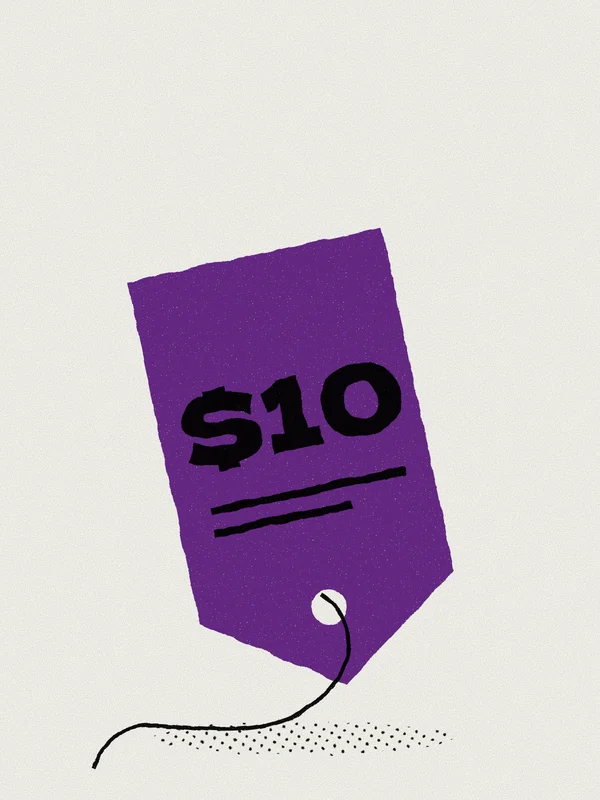
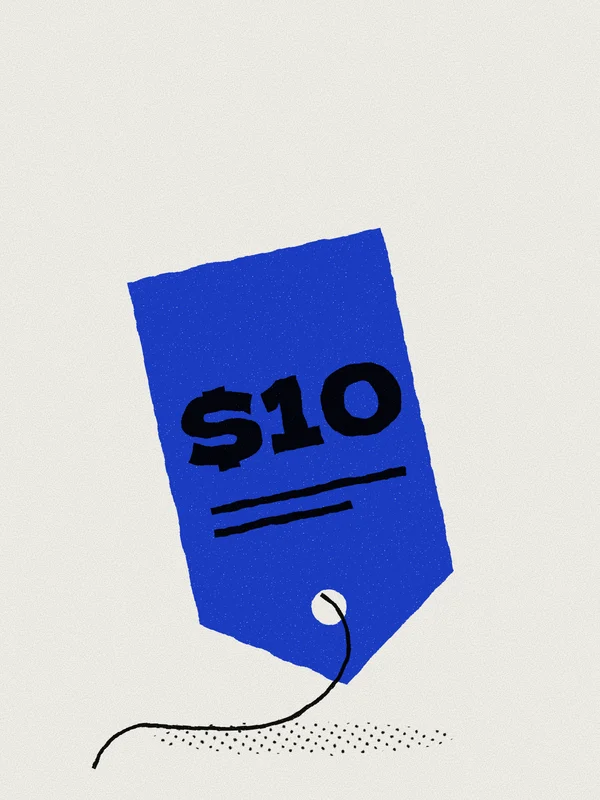
Цвет тома 1: Кобальт

Changed region(s): [[0.21, 0.2812, 0.78, 0.875]]

diff --git a/src/content/tomes/tome-1.md b/src/content/tomes/tome-1.md
@@ -5,7 +5,7 @@ color: cobalt          # tome-cobalt: #1E3FD8 днём, #8FA4FF ночью
 lede: "Тома выходят раз в два месяца, у каждого одна тема. Этот — о голосах, которые звучат, пока их владельцев не видно: о переводчице, певице без титров, женщине, нашедшей чужую песню, и подростке, который говорит чужими песнями."
 cover: "/covers/tome-1-vtoroj-golos.webp"
 coverSvg: "/covers/tome-1-vtoroj-golos.svg"
-coverAlt: "Название «Второй голос», вырезанное из сливового поля, под ним две точки: голос и его второй прогон"
+coverAlt: "Название «Второй голос», вырезанное из синего поля, под ним две точки: голос и его второй прогон"
 publishedAt: null      # дату выхода назначит главред
 status: published
 ---

diff --git a/docs/components.md b/docs/components.md
@@ -12,7 +12,7 @@
 
 ## Base / Layout
 
-- `<html lang="ru" data-tome="plum">`. Цвет тома берётся из коллекции томов (`color`).
+- `<html lang="ru" data-tome="cobalt">`. Цвет тома берётся из коллекции томов (`color`).
 - Тема ставится **до первой отрисовки** инлайн-скриптом в `<head>`: читает `localStorage.theme` (`day` | `night`); если пусто — следует `prefers-color-scheme`. Так нет вспышки белого ночью.
 - Страница обведена рамкой цвета тома: `--frame-desktop` (22px) на компьютере, `--frame-mobile` (8px) на телефоне. Внутри — `--paper`.
 - Сетка: 12 колонок, промежуток `--space-24`, поля `--space-48`. На телефоне 4 колонки, поля `--page-margin-mobile`.

diff --git a/docs/pages.md b/docs/pages.md
@@ -53,7 +53,7 @@
 
 ## Ночь
 
-Макет `07-night.jpg`. Та же вёрстка, другая тема цветов: фон `--paper` ночной (тёплый тёмный), текст светлый, цвет тома — светлая пара (`--tome-plum` ночью `#C99BEA`), текст на нём тёмный (`--on-tome`). Иллюстрации и обложки не меняются.
+Макет `07-night.jpg`. Та же вёрстка, другая тема цветов: фон `--paper` ночной (тёплый тёмный), текст светлый, цвет тома — светлая пара (`--tome-cobalt` ночью `#8FA4FF`), текст на нём тёмный (`--on-tome`). Иллюстрации и обложки не меняются.
 
 ## Страницы без макета
 
